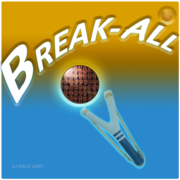
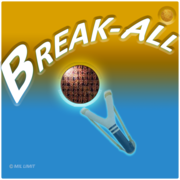
Changing MIL LIMIT to Shrubburn Ent

diff --git a/index.html b/index.html
@@ -1,6 +1,7 @@
 <!DOCTYPE html>
 <html lang="en">
-	<head>
+
+    <head>
 
         <meta http-equiv="Content-type" content="text/html; charset=utf-8">
 
@@ -23,6 +24,8 @@
         <meta property="og:image:height" content="600">
 
         <link rel="shortcut icon" type="image/png" sizes="32x32" href="favicon-32x32.png">
+
+		<!-- Auto Generated from https://realfavicongenerator.net/ -->		
 		<link rel="apple-touch-icon" sizes="180x180" href="apple-touch-icon.png">
 		<link rel="icon" type="image/png" sizes="32x32" href="favicon-32x32.png">
 		<link rel="icon" type="image/png" sizes="16x16" href="favicon-16x16.png">
@@ -30,6 +33,7 @@
 		<link rel="mask-icon" href="safari-pinned-tab.svg" color="#12a494">
 		<meta name="msapplication-TileColor" content="#2d89ef">
 		<meta name="theme-color" content="#ffffff">
+		<!-- End Generated -->
 
         <link rel="preload" href="fonts/Beautiful.ttf" as="font" crossorigin>
         <link rel="preload" href="fonts/BLACK.ttf" as="font" crossorigin>
@@ -37,7 +41,7 @@
         <link rel="author" href="mailto:jdieuhou@gmail.com" />
         <link rel="author" type="text/html" href="https://www.linkedin.com/in/jerome-dh" />
 
-        <meta name="author" content="MIL LIMIT">
+        <meta name="author" content="Shrubburn Ent.">
         <meta name="description" content="Break-All is the Game to Break and Destroy all the objects in a scene.">
 
         <title>Break All</title>
@@ -157,10 +161,9 @@
                         </p>
 						
 						<div class="share-online">
-						
-							<a href="https://twitter.com/intent/tweet?url=https%3A%2F%2Fjerome-dh.github.io%2Fbreak-all%2F&text=I'm%20breaking%20everything%2C%20try%20it%20for%20yourself!%20" target="_blank"><img class="social-button" src="images/icons/twitter.png" width="20" alt="twitter"></a> &nbsp;
-							<a href="https://www.facebook.com/sharer/sharer.php?u=https%3A%2F%2Fjerome-dh.github.io%2Fbreak-all%2F" target="_blank"><img class="social-button" src="images/icons/facebook.png" width="20" alt="facebook"></a> &nbsp;
-							<a href="http://www.linkedin.com/shareArticle?mini=true&url=https%3A%2F%2Fjerome-dh.github.io%2Fbreak-all%2F&title=I'm%20breaking%20everything%2C%20try%20it%20for%20yourself!%20" target="_blank"><img class="social-button" src="images/icons/linkedin.png" width="20" alt="linkedin"></a>
+							<a href="https://twitter.com/" target="_blank"><img class="social-button" src="images/icons/twitter.png" width="20" alt="twitter"></a> &nbsp;
+							<a href="https://www.facebook.com/" target="_blank"><img class="social-button" src="images/icons/facebook.png" width="20" alt="facebook"></a> &nbsp;
+							<a href="http://www.linkedin.com/" target="_blank"><img class="social-button" src="images/icons/linkedin.png" width="20" alt="linkedin"></a>
 
 						</div>
 						
@@ -346,7 +349,7 @@
                         </p>
 
                         <p>
-                            This game was developed by <a href="https://github.com/jerome-dh" target="_blank">MIL LIMIT</a>
+                            This game was developed by <a href="https://github.com/jerome-dh" target="_blank">Shrubburn Ent.</a>
                             and is free to play and download.<br/>
                            Users can play the game online by logging into its address, which allows the user to play without any addiction.<br/>
 
@@ -355,7 +358,7 @@
                         <hr/>
 
                         <p>
-                            &copy; MIL LIMIT - 2020
+                            &copy; Shrubburn Ent. - 2020
                         </p>
                     </div>
 
@@ -437,7 +440,7 @@
                 </div>
 
                 <footer id="footerscreen">
-                    <small>&copy; MIL LIMIT</small>
+                    <small>&copy; Shrubburn Ent.</small>
                 </footer>
 
             </div>

diff --git a/css/break-all.css b/css/break-all.css
@@ -116,24 +116,20 @@ img[alt='Deco'] {
 
 /* Buttons Decorations */
 @keyframes animePlayButton{
-	0%, 40%, 70%, 100%{
+	0%, 100%{
 		background: url('../images/icons/play-off.png') center no-repeat;
-		transform: rotate(0deg);
+		transform: translateX(0);
 	}
-	55%{
+	40%{
 		background: url('../images/icons/play-on.png') center no-repeat;
-		transform: rotate(-10deg);
-	}
-	60%{
-		background: url('../images/icons/play-on.png') center no-repeat;
-		transform: rotate(-15deg);
+		transform: translateX(8px);
 	}
 }
 .btn-play {
     background: url('../images/icons/play-off.png') center no-repeat;
     height: 120px;
     width: 150px;
-	animation: animePlayButton 4s 2s infinite linear;
+	animation: animePlayButton 2s 1s infinite linear normal;
 }
 
 .btn-play:hover, .btn-play:active {
@@ -251,13 +247,8 @@ img[alt='Deco'] {
     background: darkslategray;
     border-radius: 6px;
     padding: 8px;
-    width: 220px;
+    width: auto;
     cursor: pointer;
-}
-.content [type="submit"] img {
-    position: absolute;
-    margin-left: -30px;
-    margin-top: 1px;
 }
 .small-link {
     font-size: 80%;

diff --git a/js/Game.js b/js/Game.js
@@ -65,6 +65,7 @@ var game = {
     loadSounds: function(onload) {
 
         game.backgroundMusic = loader.loadSound("audio/gurdonark-kindergarten");
+		game.backgroundMusic.loop = true;
         game.slingshotReleasedSound = loader.loadSound("audio/released");
         game.endedSuccessSound = loader.loadSound("audio/fa");
         game.endedFailureSound = loader.loadSound("audio/woodchime");
